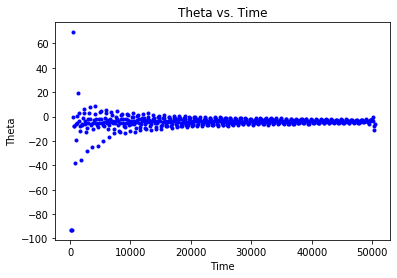
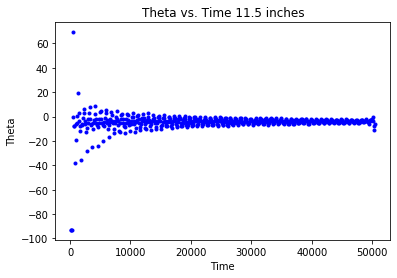
bruh

Changed region(s): [[0.3627, 0.0288, 0.7859, 0.0863]]

diff --git a/Step 4/analysis.py b/Step 4/analysis.py
@@ -6,8 +6,8 @@ import numpy as np
 import matplotlib.pyplot as plt
 import scipy.signal as sig
 
-path = "/Users/ottolaakso/Desktop/Tufts Classes/ES2/GitHub/project-1-otto-and-drew/Step 3"
-#path = "c:/Users/drewh/Documents/GitHub/project-1-otto-and-drew/Step 3"
+#path = "/Users/ottolaakso/Desktop/Tufts Classes/ES2/GitHub/project-1-otto-and-drew/Step 3"
+path = "c:/Users/drewh/Documents/GitHub/project-1-otto-and-drew/Step 3"
 os.chdir(path)
 
 fin1 = open("receiver_data1.txt", "r")
@@ -16,9 +16,9 @@ fin3 = open("receiver_data3.txt", "r")
 fin4 = open("receiver_data4.txt", "r")
 fin5 = open("receiver_data5.txt", "r")
 
-def create_array("name"):
+def create_array(name):
     
-    fin = open("name", "r")
+    fin = open(name, "r")
     outname = "new" + name
     fout = open(outname, "w")
     for line in fin:
@@ -45,7 +45,7 @@ def acc_array(array):
     plt.plot(t, x, 'r--', t, y, 'bs', t, z, 'g^')
     plt.xlabel('Time')
     plt.ylabel('Accelerations')
-    plt.title('Acceleration vs Time')
+    plt.title('Acceleration vs Time 7.5 inches')
     plt.legend(('X values', 'Y values', 'Z values'))
     plt.show()
 
@@ -79,7 +79,7 @@ def theta_graph(new_array):
     plt.plot(ti, th, 'b.')
     plt.xlabel('Time')
     plt.ylabel('Theta')
-    plt.title('Theta vs. Time')
+    plt.title('Theta vs. Time 13.5 inches')
     plt.show()
 
 def find_period(new_array):
@@ -88,12 +88,10 @@ def find_period(new_array):
     y_filt = sig.medfilt(y)
     y_filt_pks, _ = sig.find_peaks(y_filt)
     plt.plot(time, y, 'r-', time[y_filt_pks], y_filt[y_filt_pks], 'b.')
-    plt.title('Period of pendulum')
+    plt.title('Period of pendulum 9.5 inches')
     plt.show()
     print(y_filt[y_filt_pks][7]-y_filt[y_filt_pks][8])
 
-
-create_array(fin1)
 
 
 
